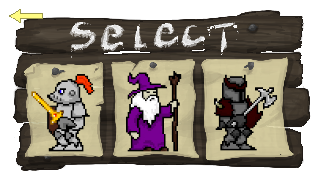
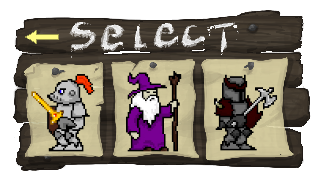
Add files via upload
Finished most of the UI

Changed region(s): [[0.0312, 0.0556, 0.1562, 0.1389], [0.0625, 0.1667, 0.1875, 0.25]]

diff --git a/Wizard_Organized.py b/Wizard_Organized.py
@@ -28,6 +28,7 @@ class GameState(enum.Enum):
     RUNNING = "running"
     BOSS_FIGHT = "boss_fight"
     GAME_OVER = "game_over"
+    CONTROLS = "controls"
 
 class Character(py.sprite.Sprite):
     path = 'Game Images/Characters/{}_{}_{}_{}.png'
@@ -43,6 +44,7 @@ class Character(py.sprite.Sprite):
         self.is_jumping = False
         self.jump_velocity = 15
         self.ground_level = 330
+        self.image_changer_time = 12
 
         # Movement variables
         self.X_change = 0
@@ -51,7 +53,7 @@ class Character(py.sprite.Sprite):
         # Character Attributes
         self.frame = 1
         self.facing = 'Right'
-        self.state = 'Running'
+        self.state = 'Resting'
         
         # Image-related attributes
         self.character_image = None
@@ -63,7 +65,7 @@ class Character(py.sprite.Sprite):
         """
         self.timer += 1
 
-        if self.timer >= 12:
+        if self.timer >= self.image_changer_time:
             self.timer = 0
             self.frame = 2 if self.frame == 1 else 1
 
@@ -142,6 +144,7 @@ class Obstacle(py.sprite.Sprite):
         self.rect.x = x
         self.rect.y = y
         self.speed = 5  # speed of obstacle
+        self.width = 70
 
     def update(self):
         """
@@ -170,6 +173,7 @@ class Game:
         self.states = {
             GameState.MENU: self.menu_state,
             GameState.CHARACTER_SELECT: self.character_select_state,
+            GameState.CONTROLS: self.controls_state, 
             GameState.RUNNING: self.running_state,
             GameState.BOSS_FIGHT: self.boss_fight_state,
             GameState.GAME_OVER: self.game_over_state,
@@ -243,7 +247,9 @@ class Game:
                 self.dragon_eye_open = False
                 mouse_x, mouse_y = py.mouse.get_pos()
                 if self.game_state == GameState.MENU:
-                    if 672 <= mouse_x <= 927 and 213 <= mouse_y <= 276:
+                    if 820 <= mouse_x <= 910 and 50 <= mouse_y <= 84:
+                        self.game_state = GameState.CONTROLS
+                    elif 672 <= mouse_x <= 927 and 213 <= mouse_y <= 276:
                         self.transition = True
                     elif 696 <= mouse_x <= 896 and 335 <= mouse_y <= 377:
                         self.running = False
@@ -251,7 +257,7 @@ class Game:
                         self.game_state = GameState.CHARACTER_SELECT
 
                 elif self.game_state == GameState.CHARACTER_SELECT:
-                    if 26 <= mouse_x <= 128 and 28 <= mouse_y <= 69:
+                    if 74 <= mouse_x <= 176 and 89 <= mouse_y <= 133:
                         self.game_state = GameState.MENU
                     elif 79 <= mouse_x <= 308 and 189 <= mouse_y <= 467:
                         self.character.character = 'Knight'
@@ -263,9 +269,19 @@ class Game:
                         self.character.character = 'Dark_Knight'
                         self.game_state = GameState.MENU
 
+                elif self.game_state == GameState.CONTROLS:
+                    if 26 <= mouse_x <= 128 and 28 <= mouse_y <= 69:
+                        self.game_state = GameState.MENU
+
+                elif self.game_state == GameState.GAME_OVER:
+                    if 422 <= mouse_x <= 637 and 347 <= mouse_y <= 422:
+                        self.game_state = GameState.RUNNING
+                    if 397 <= mouse_x <= 561 and 455 <= mouse_y <= 529:
+                        self.game_state = GameState.MENU
+
+
                 
             if event.type == py.KEYDOWN:
-
                 # Navigation shortcuts (delete later)
                 keys = py.key.get_pressed()
                 if keys[py.K_1]:
@@ -278,23 +294,26 @@ class Game:
                     self.transition = True
                 elif keys[py.K_5]:
                     self.game_state = GameState.GAME_OVER
+                elif keys[py.K_6]:
+                    self.game_state = GameState.CONTROLS
 
                 # Handle Character Movement
-                if (keys[py.K_SPACE] or keys[py.K_UP]) and not self.character.is_jumping:
-                    self.character.is_jumping = True
-                    self.character.Y_change = self.character.jump_velocity
-                    self.character.state = 'Running'
-                if (keys[py.K_d] or keys[py.K_RIGHT]):
-                    self.character.X_change = self.character.move_speed
-                    self.character.facing = 'Right'
-                    self.character.state = 'Running'
-                if (keys[py.K_a] or keys[py.K_LEFT]):
-                    self.character.facing = 'Left'
-                    self.character.state = 'Running'
-                    if self.game_state == GameState.RUNNING:
-                        self.character.X_change = -self.character.move_speed * 1.7
-                    elif self.game_state == GameState.BOSS_FIGHT:
-                        self.character.X_change = -self.character.move_speed
+                if self.game_state == GameState.BOSS_FIGHT or self.game_state == GameState.RUNNING:
+                    if (keys[py.K_SPACE] or keys[py.K_UP]) and not self.character.is_jumping:
+                        self.character.is_jumping = True
+                        self.character.Y_change = self.character.jump_velocity
+                        self.character.state = 'Running'
+                    if (keys[py.K_d] or keys[py.K_RIGHT]):
+                        self.character.X_change = self.character.move_speed
+                        self.character.facing = 'Right'
+                        self.character.state = 'Running'
+                    if (keys[py.K_a] or keys[py.K_LEFT]):
+                        self.character.facing = 'Left'
+                        self.character.state = 'Running'
+                        if self.game_state == GameState.RUNNING:
+                            self.character.X_change = -self.character.move_speed * 1.7
+                        elif self.game_state == GameState.BOSS_FIGHT:
+                            self.character.X_change = -self.character.move_speed
 
             if event.type == py.KEYUP:
                 #self.character.state = 'Resting'
@@ -387,8 +406,12 @@ class Game:
         bg = py.transform.scale(bg, self.screen.get_size())
         self.screen.blit(bg, (0,0))
 
-        #character_image = py.transform.scale(self.character.character_image, (132, 165))
-        #self.screen.blit(character_image, (self.player_X, self.player_Y))
+        self.character.facing = 'Right'
+        self.character.state = 'Resting'
+        self.character.image_changer_time = 24
+        character_image = py.image.load(self.character.change_image()).convert_alpha()
+        character_image = py.transform.scale(character_image, (176, 220))
+        self.screen.blit(character_image, (65, 182))
 
     def character_select_state(self):
         """
@@ -407,17 +430,43 @@ class Game:
         bg = py.transform.scale(bg, self.screen.get_size())
         self.screen.blit(bg, (0,0))
 
+    def controls_state(self):
+        bg = py.image.load(f"Game Images/Backgrounds&Objects/Controls.jpg").convert_alpha()
+        bg = py.transform.scale(bg, self.screen.get_size())
+        self.screen.blit(bg, (0,0))
+
     def running_state(self):
         """
-        Running state logic for spawning obstacles
+        Running state logic for spawning obstacles and checking collisions
         """
+        self.character.state = 'Running'
+        # Spawn obstacles
         self.obstacle_spawn_timer += 1
-        if self.obstacle_spawn_timer > random.randint(100, 300):  # spawn frequency
-            y_position = self.screen.get_height() - 115  # based on ground height
+        if self.obstacle_spawn_timer > random.randint(100, 300):
+            y_position = self.screen.get_height() - 115
             obstacle = Obstacle(self.screen.get_width(), y_position)
             self.obstacles.add(obstacle)
             self.obstacle_spawn_timer = 0
-
+            
+        # Check for collisions with adjusted hitboxes
+        for obstacle in self.obstacles:
+            # adding horizontal padding to make collision match visuals
+            char_left = self.character.player_X + 40  # adjust character's left side hitbox
+            char_right = self.character.player_X + 90  # adjust the character's right side hitbox
+            char_bottom = self.character.player_Y + 150  # adjust character's bottom hitbox
+            
+            # Obstacle hitbox adjustments
+            obstacle_left = obstacle.rect.x + 10  # added padding to obstacle's left side
+            obstacle_right = obstacle.rect.x + obstacle.width - 10  # reduce obstacle's right side
+            obstacle_top = obstacle.rect.y + 10  # add padding to obstacle's top
+            
+            # check if character overlaps with obstacle
+            if (char_left < obstacle_right and 
+                char_right > obstacle_left and 
+                char_bottom > obstacle_top):
+                self.game_state = GameState.GAME_OVER
+                break
+    
     def boss_fight_state(self):
         if self.needs_redraw or not self.last_frame:
             self.screen.fill((0, 0, 0))
@@ -431,7 +480,11 @@ class Game:
         """
         Game over state rendering
         """
-        self.screen.fill((50, 50, 50))  # Gray screen for game over
+
+        bg = py.image.load(f"Game Images/Backgrounds&Objects/Game_Over_Overlay_2.png").convert_alpha()
+        bg = py.transform.scale(bg, self.screen.get_size())
+        self.screen.blit(bg, (0,0))
+        
 
     def run_game(self):
         """
